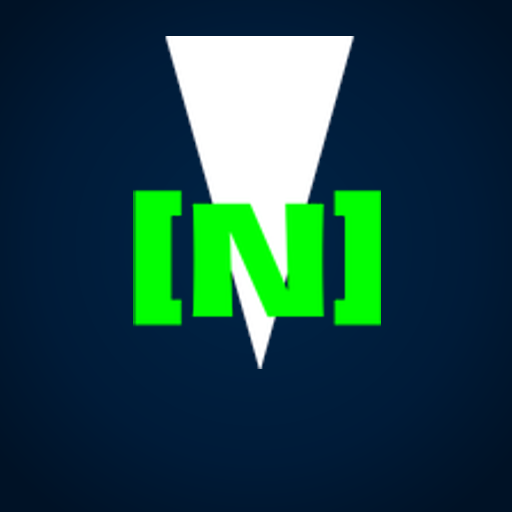
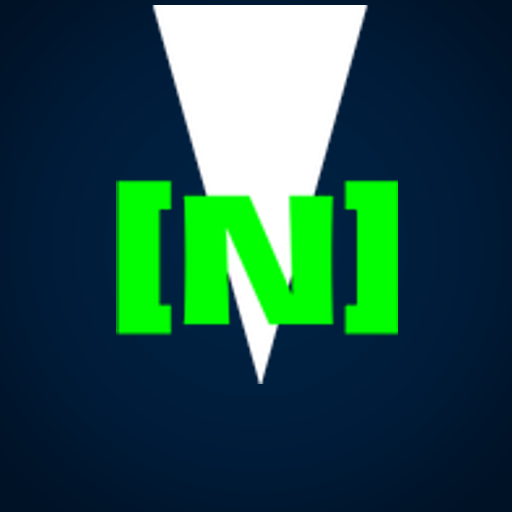
fix(pwa): enlarge emblem to 74% and keep [N] perfectly dead-centered (v11)

Changed region(s): [[0.2188, 0.0, 0.7812, 0.75]]

diff --git a/public/sw.js b/public/sw.js
@@ -12,10 +12,10 @@ const STATIC_URLS = [
     '/locales/en.json',
     '/404.html',
     '/return-policy.html',
-    '/badge.png?v=10',
-    '/icon-192.png?v=10',
-    '/icon-512.png?v=10',
-    '/icon.png?v=10',
+    '/badge.png?v=11',
+    '/icon-192.png?v=11',
+    '/icon-512.png?v=11',
+    '/icon.png?v=11',
     '/cables.svg'
 ];
 
@@ -308,11 +308,11 @@ self.addEventListener('push', event => {
             data = { title: 'NISHA STORE', body: event.data.text() };
         }
         const baseOrigin = 'https://www.nisha-store.shop';
-        const iconUrl = new URL('/icon-192.png?v=10', baseOrigin).href;
-        const badgeUrl = new URL('/badge.png?v=10', baseOrigin).href;
+        const iconUrl = new URL('/icon-192.png?v=11', baseOrigin).href;
+        const badgeUrl = new URL('/badge.png?v=11', baseOrigin).href;
 
-        const hasValidCustomIcon = data.icon && !data.icon.includes('vercel.app') && !data.icon.includes('?v=5') && !data.icon.includes('?v=6') && !data.icon.includes('?v=8') && !data.icon.includes('?v=9');
-        const hasValidCustomBadge = data.badge && !data.badge.includes('vercel.app') && !data.badge.includes('?v=5') && !data.badge.includes('?v=6') && !data.badge.includes('?v=8') && !data.badge.includes('?v=9');
+        const hasValidCustomIcon = data.icon && !data.icon.includes('vercel.app') && !data.icon.includes('?v=5') && !data.icon.includes('?v=6') && !data.icon.includes('?v=8') && !data.icon.includes('?v=9') && !data.icon.includes('?v=10');
+        const hasValidCustomBadge = data.badge && !data.badge.includes('vercel.app') && !data.badge.includes('?v=5') && !data.badge.includes('?v=6') && !data.badge.includes('?v=8') && !data.badge.includes('?v=9') && !data.badge.includes('?v=10');
 
         const options = {
             body: data.body,

diff --git a/sw.js b/sw.js
@@ -12,10 +12,10 @@ const STATIC_URLS = [
     '/locales/en.json',
     '/404.html',
     '/return-policy.html',
-    '/badge.png?v=10',
-    '/icon-192.png?v=10',
-    '/icon-512.png?v=10',
-    '/icon.png?v=10',
+    '/badge.png?v=11',
+    '/icon-192.png?v=11',
+    '/icon-512.png?v=11',
+    '/icon.png?v=11',
     '/cables.svg'
 ];
 
@@ -308,11 +308,11 @@ self.addEventListener('push', event => {
             data = { title: 'NISHA STORE', body: event.data.text() };
         }
         const baseOrigin = 'https://www.nisha-store.shop';
-        const iconUrl = new URL('/icon-192.png?v=10', baseOrigin).href;
-        const badgeUrl = new URL('/badge.png?v=10', baseOrigin).href;
+        const iconUrl = new URL('/icon-192.png?v=11', baseOrigin).href;
+        const badgeUrl = new URL('/badge.png?v=11', baseOrigin).href;
 
-        const hasValidCustomIcon = data.icon && !data.icon.includes('vercel.app') && !data.icon.includes('?v=5') && !data.icon.includes('?v=6') && !data.icon.includes('?v=8') && !data.icon.includes('?v=9');
-        const hasValidCustomBadge = data.badge && !data.badge.includes('vercel.app') && !data.badge.includes('?v=5') && !data.badge.includes('?v=6') && !data.badge.includes('?v=8') && !data.badge.includes('?v=9');
+        const hasValidCustomIcon = data.icon && !data.icon.includes('vercel.app') && !data.icon.includes('?v=5') && !data.icon.includes('?v=6') && !data.icon.includes('?v=8') && !data.icon.includes('?v=9') && !data.icon.includes('?v=10');
+        const hasValidCustomBadge = data.badge && !data.badge.includes('vercel.app') && !data.badge.includes('?v=5') && !data.badge.includes('?v=6') && !data.badge.includes('?v=8') && !data.badge.includes('?v=9') && !data.badge.includes('?v=10');
 
         const options = {
             body: data.body,

diff --git a/js/reviews/reviews.js b/js/reviews/reviews.js
@@ -574,10 +574,10 @@ function initReviewsRealtime(sb) {
                         const origin = (typeof window !== 'undefined' && window.location && window.location.origin)
                             ? window.location.origin
                             : 'https://www.nisha-store.shop';
-                        const notifBadge = `${origin}/badge.png?v=10`;
+                        const notifBadge = `${origin}/badge.png?v=11`;
                         const notifIcon = (rev.item_image && rev.item_image.trim())
                             ? ((typeof window.toCDN === 'function') ? window.toCDN(rev.item_image) : rev.item_image)
-                            : `${origin}/icon-192.png?v=10`;
+                            : `${origin}/icon-192.png?v=11`;
 
                         reg.showNotification('NISHA STORE | Новый отзыв ⭐', {
                             body: `${author}: "${snippet}"`,

diff --git a/index.html b/index.html
@@ -100,11 +100,11 @@
 <link rel=dns-prefetch href=https://api.novaposhta.ua>
 <link rel=dns-prefetch href=https://www.clarity.ms>
 <link rel=dns-prefetch href=https://analytics.tiktok.com>
-<link rel="shortcut icon" href="/icon-192.png?v=10">
-<link rel=icon type=image/png sizes=192x192 href="/icon-192.png?v=10">
-<link rel=apple-touch-icon sizes=180x180 href="/icon-512.png?v=10">
-<link rel=icon type=image/png sizes=32x32 href="/icon.png?v=10">
-<link rel=manifest href="/manifest.json?v=10">
+<link rel="shortcut icon" href="/icon-192.png?v=11">
+<link rel=icon type=image/png sizes=192x192 href="/icon-192.png?v=11">
+<link rel=apple-touch-icon sizes=180x180 href="/icon-512.png?v=11">
+<link rel=icon type=image/png sizes=32x32 href="/icon.png?v=11">
+<link rel=manifest href="/manifest.json?v=11">
 <!-- Smart adaptive locale preloading (UA default / saved preference) -->
 <script>
 (function(){

diff --git a/tests/serviceWorkerVersioning.test.js b/tests/serviceWorkerVersioning.test.js
@@ -66,8 +66,8 @@ describe('Service Worker & PWA Cache Automation', () => {
     it('sw.js ensures push notifications use square v6 icons and redirect away from vercel preview domains', () => {
         const content = readFileSync(publicSwPath, 'utf8');
 
-        expect(content).toContain('/icon-192.png?v=10');
-        expect(content).toContain('/badge.png?v=10');
+        expect(content).toContain('/icon-192.png?v=11');
+        expect(content).toContain('/badge.png?v=11');
         expect(content).toContain("parsed.hostname.includes('vercel.app')");
         expect(content).toContain("parsed.hostname = 'www.nisha-store.shop'");
     });
